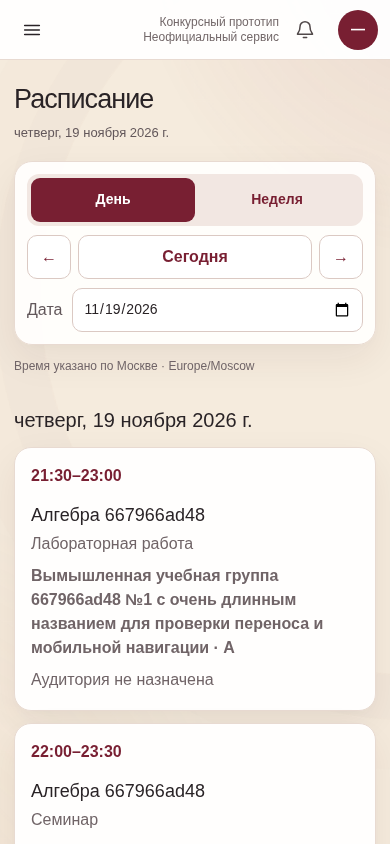
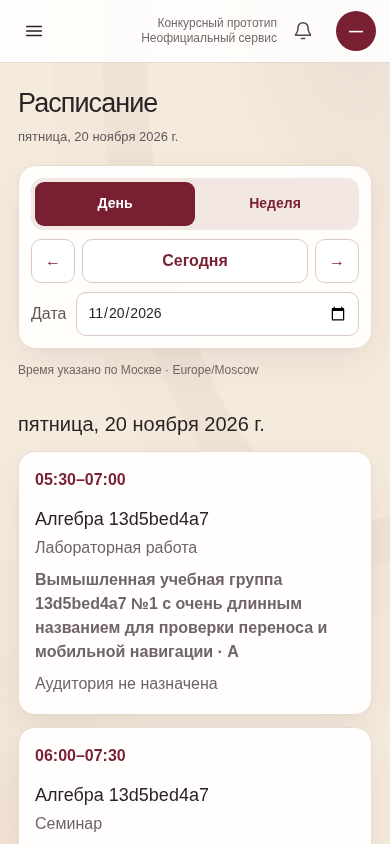
Unify MVP2 role cabinet with v5 reference

Changed region(s): [[0.0, 0.0, 1.0, 0.4621], [0.0308, 0.4929, 0.9846, 1.0], [0.9538, 0.5545, 0.9846, 0.8318]]

diff --git a/frontend/src/app/mvp2-unified.css b/frontend/src/app/mvp2-unified.css
@@ -4,6 +4,220 @@
   display: contents;
 }
 
+/* Reference v5 shell. These rules are deliberately limited to authenticated MVP2
+   routes so the approved student MVP1 surface is not altered. */
+.mvp2-role-surface .student-shell {
+  min-height: 100vh;
+  background: #f5ebdd;
+  color: #292326;
+}
+
+.mvp2-role-surface .desktop-sidebar {
+  width: 252px;
+  padding: 19px 14px 13px;
+  background: #241a1c;
+}
+
+.mvp2-role-surface .sidebar-brand-link {
+  margin-bottom: 25px;
+}
+.mvp2-role-surface .student-navigation {
+  gap: 4px;
+}
+.mvp2-role-surface .student-navigation__link {
+  min-height: 43px;
+  padding-inline: 11px;
+  border-radius: 9px;
+  font-size: 13px;
+}
+.mvp2-role-surface .student-navigation__link.is-active {
+  background: #3b252a;
+  box-shadow: inset 3px 0 #e5ac56;
+}
+.mvp2-role-surface .sidebar-collapsed .desktop-sidebar {
+  width: 76px;
+}
+.mvp2-role-surface .student-main-column {
+  margin-left: 252px;
+}
+.mvp2-role-surface .sidebar-collapsed .student-main-column {
+  margin-left: 76px;
+}
+.mvp2-role-surface .ambient-canvas {
+  left: 252px;
+  background: #f5ebdd;
+}
+.mvp2-role-surface .sidebar-collapsed .ambient-canvas {
+  left: 76px;
+}
+.mvp2-role-surface .ambient-canvas::before {
+  inset: 0;
+  background:
+    radial-gradient(ellipse 53% 42% at 92% 0%, rgb(186 123 132 / 12%), transparent 72%),
+    radial-gradient(ellipse 54% 50% at 0% 100%, rgb(222 170 127 / 10%), transparent 75%);
+  animation: none;
+}
+.mvp2-role-surface .ambient-orbit {
+  top: -28%;
+  right: -27%;
+  width: min(88vw, 1180px);
+  border-color: rgb(120 31 50 / 4.8%);
+  box-shadow:
+    0 0 0 44px rgb(120 31 50 / 1.5%),
+    0 0 0 45px rgb(120 31 50 / 2.6%),
+    0 0 0 94px rgb(120 31 50 / 1.2%),
+    0 0 0 95px rgb(120 31 50 / 2.1%);
+}
+.mvp2-role-surface .student-topbar {
+  min-height: 63px;
+  padding-inline: 24px;
+  border-color: #e8dad1;
+  background: rgb(255 254 253 / 92%);
+}
+.mvp2-role-surface .student-content {
+  width: min(100%, 1550px);
+  min-height: calc(100vh - 63px);
+  padding: 35px 37px 88px;
+}
+.mvp2-role-surface .section-page,
+.mvp2-role-surface .welcome-card {
+  animation: none;
+}
+.mvp2-role-surface .section-page h1 {
+  margin: 0 0 12px;
+  color: #292326;
+  font-size: clamp(29px, 2.35vw, 36px);
+  font-weight: 760;
+  line-height: 1.13;
+  letter-spacing: -0.035em;
+}
+.mvp2-role-surface .section-page h2 {
+  color: #292326;
+  font-size: 20px;
+  font-weight: 700;
+  letter-spacing: -0.02em;
+}
+.mvp2-role-surface :is(.section-eyebrow, .section-page .section-eyebrow) {
+  margin: 0 0 8px;
+  color: #781f32;
+  font-size: 11px;
+  font-weight: 750;
+  letter-spacing: 0.085em;
+  text-transform: uppercase;
+}
+.mvp2-role-surface :is(.service-subtitle, .teacher-journal__intro) {
+  max-width: 760px;
+  margin: 0 0 25px;
+  color: #71666a;
+  font-size: 15px;
+  line-height: 1.6;
+}
+.mvp2-role-surface
+  :is(
+    .section-page > section,
+    .section-page > article,
+    .staff-journal > section,
+    .teacher-journal__panel,
+    .staff-students-page .staff-student-filters,
+    .staff-news-page form,
+    .admin-users > section,
+    .application-detail-card
+  ) {
+  border: 1px solid #e8dad1;
+  border-radius: 19px;
+  background: #fffefd;
+  box-shadow: 0 8px 24px rgb(66 31 37 / 5%);
+}
+.mvp2-role-surface
+  :is(
+    .staff-journal,
+    .teacher-journal,
+    .staff-applications,
+    .staff-schedule,
+    .staff-students-page,
+    .staff-news-page,
+    .admin-users
+  ) {
+  max-width: 1550px;
+  margin-inline: auto;
+  color: #292326;
+}
+.mvp2-role-surface
+  :is(
+    .staff-journal > section,
+    .teacher-journal__panel,
+    .staff-applications__filters,
+    .staff-schedule__filters,
+    .staff-news-page form,
+    .admin-users > section,
+    .staff-student-filters
+  ) {
+  padding: 22px;
+}
+.mvp2-role-surface :is(.staff-applications__table, .applications-table) {
+  border: 1px solid #e8dad1;
+  border-radius: 15px;
+  background: #fffefd;
+}
+.mvp2-role-surface :is(.staff-applications__table th, .applications-table th) {
+  color: #71666a;
+  background: #f8efeb;
+  font-size: 12px;
+  font-weight: 700;
+}
+.mvp2-role-surface :is(.staff-applications__table td, .applications-table td) {
+  border-color: #eee3dd;
+}
+.mvp2-role-surface
+  :is(
+    .staff-schedule__lesson,
+    .staff-student-card,
+    .staff-news-row,
+    .admin-user-list li,
+    .journal-student,
+    .journal-work-card
+  ) {
+  border: 1px solid #e8dad1;
+  border-radius: 15px;
+  background: #fffefd;
+  box-shadow: 0 4px 14px rgb(66 31 37 / 4%);
+}
+.mvp2-role-surface
+  :is(
+    button.auth-submit,
+    .staff-schedule__primary,
+    .staff-student-filters button,
+    .student-form-actions button,
+    .admin-users button[type='submit']
+  ) {
+  min-height: 42px;
+  border-radius: 10px;
+  background: #781f32;
+  color: #fff;
+  font-weight: 650;
+}
+
+@media (max-width: 1100px) {
+  .mvp2-role-surface .student-content {
+    padding-inline: 25px;
+  }
+}
+@media (max-width: 720px) {
+  .mvp2-role-surface .student-main-column,
+  .mvp2-role-surface .sidebar-collapsed .student-main-column {
+    margin-left: 0;
+  }
+  .mvp2-role-surface .ambient-canvas,
+  .mvp2-role-surface .sidebar-collapsed .ambient-canvas {
+    left: 0;
+  }
+  .mvp2-role-surface .student-content {
+    padding: 25px 18px 54px;
+  }
+  .mvp2-role-surface .student-topbar {
+    padding-inline: 14px;
+  }
+}
 .mvp2-role-surface
   :is(
     .teacher-journal,

diff --git a/docs/visual-acceptance/issue-149/README.md b/docs/visual-acceptance/issue-149/README.md
@@ -25,6 +25,7 @@ Further states:
 - The teacher schedule toolbar squeezed “Сегодня” into an arrow-sized button. The button now keeps its intrinsic width.
 - On narrow screens the date label/input wrapped into a narrow extra column and overlapped. The mobile teacher toolbar now uses full-width segmented day/week controls, a three-column previous/today/next row, and a full-width date row.
 - Teacher schedule heading size and lesson-card layout now follow the agreed schedule typography and time/details composition while keeping the teacher-specific lesson type, group, room, and time data.
+- The role cabinet content now uses the reference's 1550 px maximum canvas width, 252 px sidebar, 63 px topbar, v5 surfaces and reduced-motion-safe static ambient background; these overrides are scoped to role-based MVP2 pages, leaving student MVP1 pages unchanged.
 - Browser capture initially caught loading and in-progress transitions. Captures now wait for API-backed lesson cards and transition completion. The final screenshots show stable loaded states.
 - `prefers-reduced-motion: reduce` was exercised for the day/week switch. No transition was observed in the reduced-motion capture.
 
